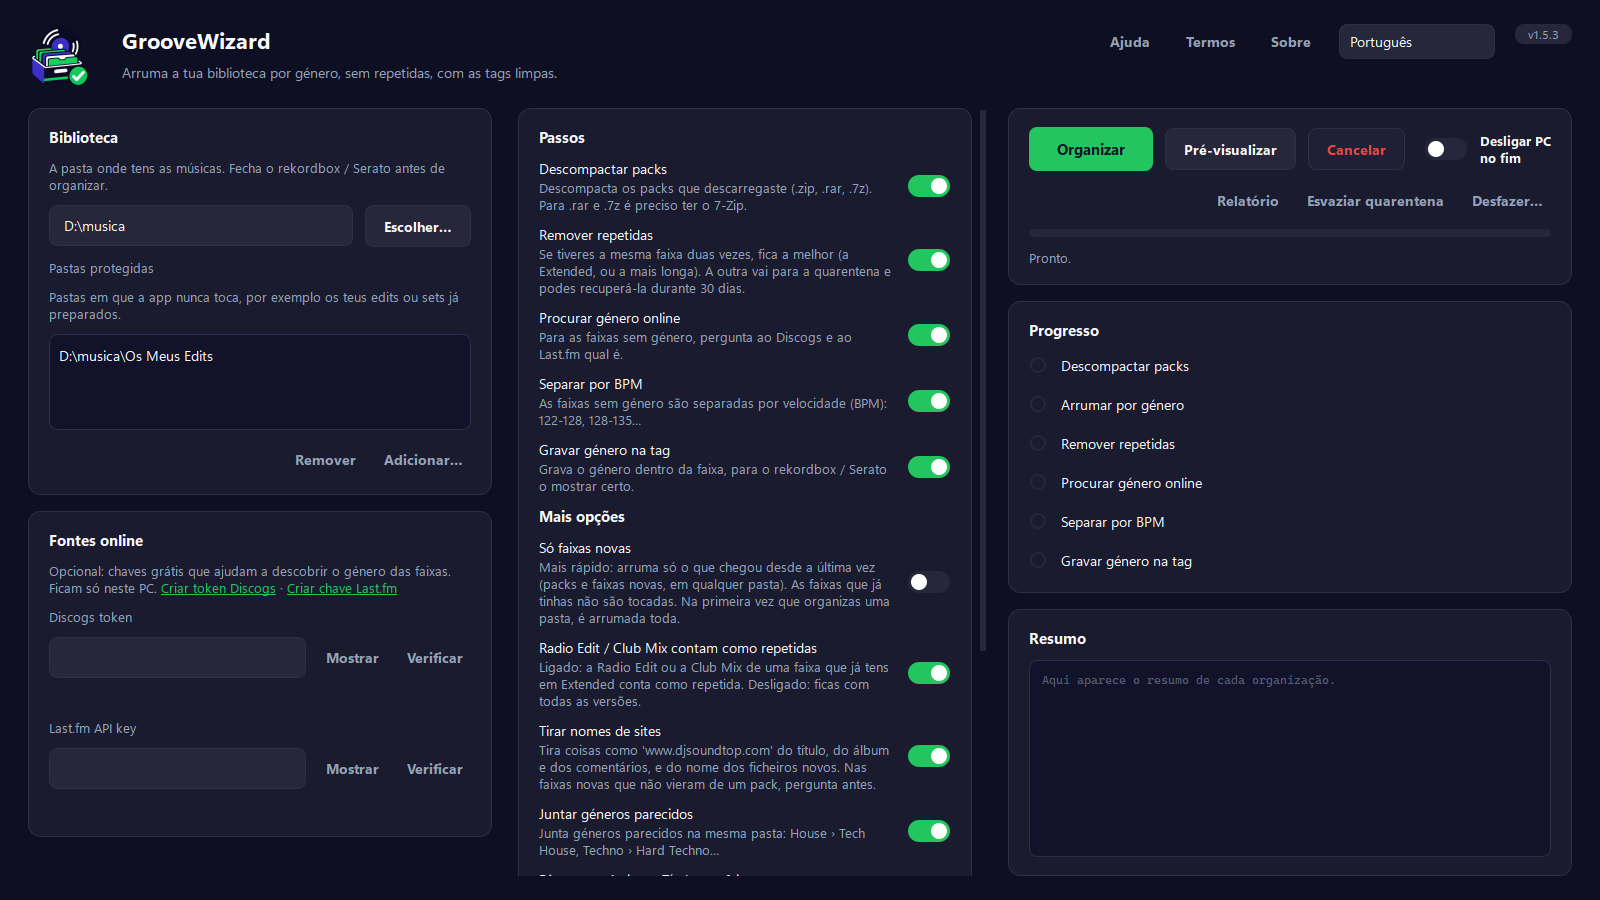
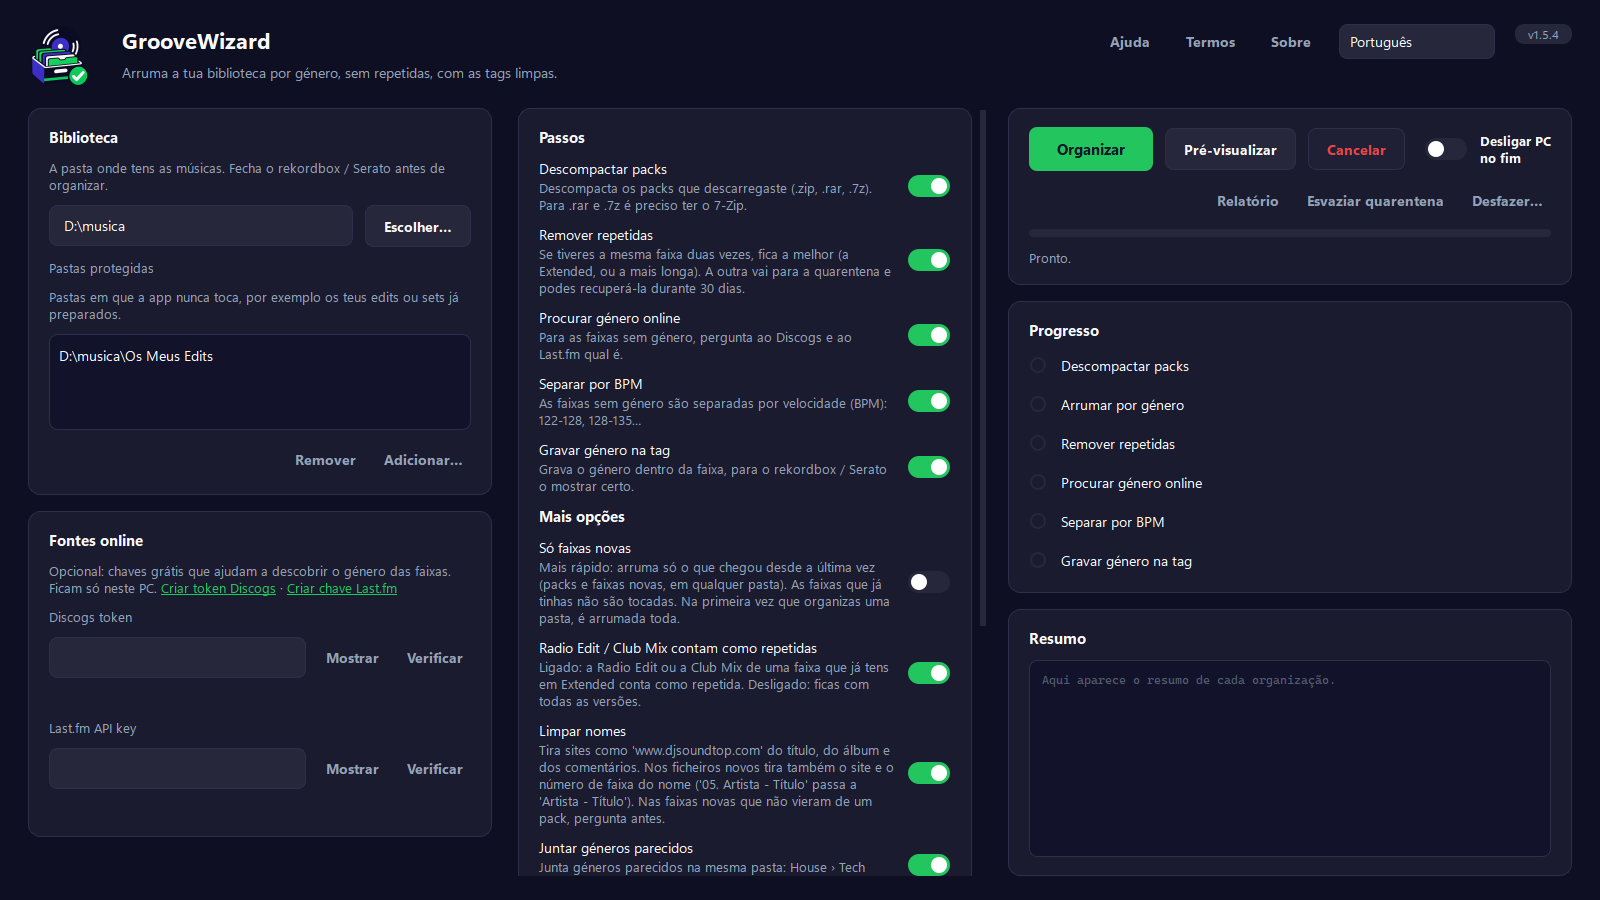
GrooveWizard 1.5.4: número de faixa sai do nome das faixas novas
- 'Limpar nomes' tira o site e o número de faixa ('05. Artista - Título' -> 'Artista - Título') dos ficheiros novos
- 'Limpar o nome das faixas antigas' faz o mesmo nas antigas, com pergunta
- O número fica quando faz parte do artista (808 State, 6 Sense, 3.14 (AR)); prefixos como [Live] ficam
- Faixa antiga posta na _entrada à mão é reconhecida pelo conteúdo e tratada como antiga

Changed region(s): [[0.3125, 0.8089, 0.5938, 0.9956], [0.5625, 0.9022, 0.5938, 0.9956]]

diff --git a/organizador/i18n.py b/organizador/i18n.py
@@ -76,15 +76,15 @@ S = {
     "opt.bpm_folders_d": {"pt": "As faixas sem género são separadas por velocidade (BPM): 122-128, 128-135…", "en": "Tracks without a genre are split by speed (BPM): 122-128, 128-135…"},
     "opt.write_tags": {"pt": "Gravar género na tag", "en": "Write genre to tags"},
     "opt.write_tags_d": {"pt": "Grava o género dentro da faixa, para o rekordbox / Serato o mostrar certo.", "en": "Saves the genre inside the track, so rekordbox / Serato show it right."},
-    "opt.clean_sites": {"pt": "Tirar nomes de sites", "en": "Remove website names"},
-    "opt.clean_sites_d": {"pt": "Tira coisas como 'www.djsoundtop.com' do título, do álbum e dos comentários, e do nome dos ficheiros novos. Nas faixas novas que não vieram de um pack, pergunta antes.", "en": "Removes things like 'www.djsoundtop.com' from the title, album and comments, and from new file names. For new tracks that didn't come from a pack, it asks first."},
-    "opt.site_names": {"pt": "Tirar sites do nome das faixas antigas", "en": "Remove sites from old tracks' names"},
-    "opt.site_names_d": {"pt": "Também nas faixas que já tinhas. Pergunta antes. Atenção: o rekordbox / Serato deixa de as encontrar e tens de as importar outra vez (perdes os cues dessas faixas).", "en": "Also for tracks you already had. Asks first. Note: rekordbox / Serato will no longer find them and you'll have to import them again (their cues are lost)."},
-    "sites.title": {"pt": "Sites no nome das faixas", "en": "Sites in track names"},
-    "sites.ask": {"pt": "{n} faixas antigas têm um site no nome (ex.: '- www.djsoundtop.com').\n\nTirar o site do nome?\n\nAtenção: o rekordbox / Serato deixa de as encontrar. Vais ter de as importar outra vez e perdes os cues dessas faixas. A lista está em Mostrar detalhes.", "en": "{n} old tracks have a site in their name (e.g. '- www.djsoundtop.com').\n\nRemove the site from the name?\n\nNote: rekordbox / Serato will no longer find them. You'll have to import them again and their cues are lost. The list is under Show Details."},
-    "rep.site_names": {"pt": "faixas sem site no nome", "en": "tracks with the site removed from the name"},
-    "rep.site_names_ask": {"pt": "faixas que já tinhas com site no nome (vai perguntar)", "en": "existing tracks with a site in the name (you will be asked)"},
-    "plan.kind.site_name": {"pt": "Tirar site do nome (vai perguntar)", "en": "Remove site from name (will ask)"},
+    "opt.clean_sites": {"pt": "Limpar nomes", "en": "Clean up names"},
+    "opt.clean_sites_d": {"pt": "Tira sites como 'www.djsoundtop.com' do título, do álbum e dos comentários. Nos ficheiros novos tira também o site e o número de faixa do nome ('05. Artista - Título' passa a 'Artista - Título'). Nas faixas novas que não vieram de um pack, pergunta antes.", "en": "Removes sites like 'www.djsoundtop.com' from the title, album and comments. For new files it also takes the site and the track number out of the name ('05. Artist - Title' becomes 'Artist - Title'). For new tracks that didn't come from a pack, it asks first."},
+    "opt.site_names": {"pt": "Limpar o nome das faixas antigas", "en": "Clean up old tracks' names"},
+    "opt.site_names_d": {"pt": "Tira o site e o número de faixa do nome das faixas que já tinhas. Pergunta antes. Atenção: o rekordbox / Serato deixa de as encontrar e tens de as importar outra vez (perdes os cues dessas faixas).", "en": "Takes the site and track number out of the names of tracks you already had. Asks first. Note: rekordbox / Serato will no longer find them and you'll have to import them again (their cues are lost)."},
+    "sites.title": {"pt": "Nomes das faixas antigas", "en": "Old tracks' names"},
+    "sites.ask": {"pt": "{n} faixas antigas têm um site ou um número de faixa no nome (ex.: '05. Artista - Título - www.djsoundtop.com').\n\nLimpar o nome? Só sai o site e o número.\n\nAtenção: o rekordbox / Serato deixa de as encontrar. Vais ter de as importar outra vez e perdes os cues dessas faixas. A lista está em Mostrar detalhes.", "en": "{n} old tracks have a site or a track number in their name (e.g. '05. Artist - Title - www.djsoundtop.com').\n\nClean up the name? Only the site and the number come out.\n\nNote: rekordbox / Serato will no longer find them. You'll have to import them again and their cues are lost. The list is under Show Details."},
+    "rep.site_names": {"pt": "faixas antigas com o nome limpo", "en": "old tracks with a cleaned-up name"},
+    "rep.site_names_ask": {"pt": "faixas antigas com site ou número no nome (vai perguntar)", "en": "old tracks with a site or number in the name (you will be asked)"},
+    "plan.kind.site_name": {"pt": "Limpar nome (vai perguntar)", "en": "Clean up name (will ask)"},
     "opt.families": {"pt": "Juntar géneros parecidos", "en": "Group similar genres"},
     "opt.families_d": {"pt": "Junta géneros parecidos na mesma pasta: House › Tech House, Techno › Hard Techno…", "en": "Puts similar genres in one folder: House › Tech House, Techno › Hard Techno…"},
     "opt.musicbrainz": {"pt": "Usar também o MusicBrainz", "en": "Also use MusicBrainz"},
@@ -190,7 +190,7 @@ S = {
     "rep.rename_ask": {"pt": "faixas novas que não vieram de um pack (vai perguntar antes de mudar o nome)", "en": "new tracks that didn't come from a pack (you'll be asked before renaming)"},
     "rename.title": {"pt": "Faixas novas", "en": "New tracks"},
     "newsites.title": {"pt": "Faixas novas", "en": "New tracks"},
-    "newsites.ask": {"pt": "Há {n} faixas novas com um site no nome (ex.: '- www.djsoundtop.com').\n\nTirar o site do nome? O resto do nome fica igual.\n\nSe alguma já estiver no rekordbox / Serato, escolhe Não: ele deixaria de a encontrar. A lista está em Mostrar detalhes.", "en": "There are {n} new tracks with a site in their name (e.g. '- www.djsoundtop.com').\n\nRemove the site from the name? The rest stays the same.\n\nIf any of them is already in rekordbox / Serato, choose No: it would no longer find it. The list is under Show Details."},
+    "newsites.ask": {"pt": "Há {n} faixas novas com um site ou um número de faixa no nome (ex.: '05. Artista - Título - www.djsoundtop.com').\n\nLimpar o nome? Só sai o site e o número; o resto fica igual.\n\nSe alguma já estiver no rekordbox / Serato, escolhe Não: ele deixaria de a encontrar. A lista está em Mostrar detalhes.", "en": "There are {n} new tracks with a site or a track number in their name (e.g. '05. Artist - Title - www.djsoundtop.com').\n\nClean up the name? Only the site and the number come out; the rest stays.\n\nIf any of them is already in rekordbox / Serato, choose No: it would no longer find it. The list is under Show Details."},
     "rename.ask": {"pt": "Há {n} faixas novas que não vieram de um pack.\n\nMudar o nome delas para Artista - Título?\n\nSe alguma já estiver no rekordbox / Serato, escolhe Não: ele deixaria de a encontrar. A lista está em Mostrar detalhes.", "en": "There are {n} new tracks that didn't come from a pack.\n\nRename them Artist - Title?\n\nIf any of them is already in rekordbox / Serato, choose No: it would no longer find it. The list is under Show Details."},
     "rep.tracks": {"pt": "faixas", "en": "tracks"},
     "rep.dups_pending": {"pt": "repetidas a remover", "en": "duplicates to remove"},

diff --git a/organizador/pipeline.py b/organizador/pipeline.py
@@ -28,7 +28,7 @@ from .i18n import t
 from .online import Lookup
 from .regras import FAMILY_OF, FOLDER_NAMES, NO_GENRE, OTHER
 from .tags import (JUNK_TAG_SPAM, LIST_SEP, LOSSLESS, clean_sites, fix_tags, genre_from_folder, is_audio,
-                   normalize_genre, pack_file_name, raw_genre, read_info, restore, search_terms, site_free_name, snapshot,
+                   normalize_genre, pack_file_name, raw_genre, read_info, restore, search_terms, clean_file_name, snapshot,
                    track_key, version_label)
 
 APP_DIR = os.path.join(os.environ.get("APPDATA") or os.path.expanduser("~"), "GrooveWizard")
@@ -326,6 +326,16 @@ class Organizer:
         except OSError:
             return False
 
+    def _known_content(self, p):
+        """Music the app has seen before (same fingerprint), wherever the file is now. A matching fingerprint is enough;
+        a size known only from before fingerprints is not (a pack track is never held back by an old size alone)."""
+        if self.known is None or not self._has_fps:
+            return False
+        try:
+            return os.path.getsize(p) in self.known[1] and self._fingerprint(p) in self._fps
+        except OSError:
+            return False
+
     def _fingerprint(self, p):
         """'size:hash' of 32 KB from the middle of the file (the music, not the tags at its ends). Cached by path,
         size and modified time: only new or changed files are read."""
@@ -340,12 +350,12 @@ class Organizer:
 
     def _wanted_names(self, p, info, known):
         """New names for one track, best first. New tracks: 'Artist - Title (Mix)' (option), then the same name
-        without the download site (when sites are cleaned), used if the first is taken. Known tracks: only the site
-        comes out, and only with site_names."""
+        without the download site and track number (when names are cleaned), used if the first is taken. Known
+        tracks: only the site and number come out, and only with site_names."""
         if known:
-            return [site_free_name(p)] if self.opts.site_names else []
+            return [clean_file_name(p, info["artist"])] if self.opts.site_names else []
         return [n for n in (pack_file_name(p, info) if self.opts.rename_packs else None,
-                            site_free_name(p) if self.opts.clean_sites else None) if n]
+                            clean_file_name(p, info["artist"]) if self.opts.clean_sites else None) if n]
 
     def rename_plan(self, files, infos):
         """(names for _entrada tracks, names for never-seen tracks elsewhere, site-free names for tracks you already
@@ -359,7 +369,8 @@ class Organizer:
             if info["unreadable"]:
                 continue
             if self._in_inbox(p):
-                group = inbox
+                # a track you already had, put in _entrada by hand: rekordbox may have it, so it's asked about
+                group = sites if self._known_content(p) else inbox
             elif self.is_new(p):
                 group = outside
             else:
@@ -765,7 +776,7 @@ class Organizer:
         inbox_names, outside, sites = self.rename_plan(files, infos)
         self._pending -= {os.path.normcase(p) for p in files if p not in outside}  # nothing to ask about them
         # without 'Artist - Title' names only the site comes out: the question must say so
-        kind = "new_sites" if all(n == site_free_name(p) for p, n in outside.items()) else "new"
+        kind = "new_sites" if all(n == clean_file_name(p, infos[p]["artist"]) for p, n in outside.items()) else "new"
         if outside and not (self.ask_rename and self.ask_rename(sorted(outside.items()), kind)):
             for p in outside:  # "No": known from now on, never asked again
                 self._settle(p)

diff --git a/tests/test_pipeline.py b/tests/test_pipeline.py
@@ -150,9 +150,10 @@ def test_rename_packs():
     assert "Fisher - Losing It (Extended Mix).wav" in names, names
     assert "AC DC - What Now.wav" in names, names
     assert "Bob - New One (Club Mix).wav" in names, names
-    assert "02 - sem tags.wav" in names and "03-c-taken.wav" in names, names  # unsure / taken: original name
+    # unsure / taken: the original name, only without the track number
+    assert "sem tags.wav" in names and "c-taken.wav" in names, names
     assert "x_minha.wav" in names, "a track already in the library is never renamed"
-    assert rep["renamed"] == 3, rep
+    assert rep["renamed"] == 5, rep  # 3 Artist - Title + 2 that only lost their track number
     assert os.path.exists(taken)
     rep, errs = pl.undo_last(root)
     assert not errs, errs
@@ -466,6 +467,32 @@ def test_site_names():
     assert site_free_name("Carla - Red Ambition-www.groovytunes.org.wav") == "Carla - Red Ambition.wav"
     assert site_free_name("DAMEN - Games (Original Mix) [4DJsonline.com] .aiff") == "DAMEN - Games (Original Mix).aiff"
     assert site_free_name("Love.me (Extended Mix).wav") is None and site_free_name("www.site.com.wav") is None
+    from organizador.tags import clean_file_name as cfn
+    assert cfn("05. Kaufmann (DE) - In Control.mp3", "Kaufmann (DE)") == "Kaufmann (DE) - In Control.mp3"
+    assert cfn("01. A - B - www.djsoundtop.com.mp3", "A") == "A - B.mp3"
+    assert cfn("02 - 6 Sense - X.wav", "6 Sense") == "6 Sense - X.wav"
+    for keep, art in (("3.14 (AR) - Peter.mp3", "3.14 (AR)"), ("808 State - Cubik.mp3", "808 State"),
+                      ("6 Sense - X.wav", "6 Sense"), ("1-2-3 Go.mp3", ""), ("936 - Pasion.mp3", "936")):
+        assert cfn(keep, art) is None, keep  # the number belongs to the artist / isn't a track number
+    assert cfn("[Live] 01 - A - B.mp3", "A") == "[Live] A - B.mp3"  # only the number comes off
+    assert cfn("01 - Баста - Песня.mp3", "Баста") == "Баста - Песня.mp3"  # any script
+    assert cfn("www.site.com - 05. A - B.mp3", "A") == "A - B.mp3"
+    # a track you already had, put back in _entrada by hand: asked about like any old track, not renamed silently
+    root = os.path.join(TMP, "entrada_antiga")
+    import random
+    old = make(os.path.join(root, "Techno", "Techno", "07. Z - Old.wav"), 2, "Z", "Old", "Techno")
+    with open(old, "r+b") as fh:
+        fh.seek(4000)
+        fh.write(random.Random(9).randbytes(20000))
+    o = pl.Options(root=root, online=False, bpm_folders=False, dedupe=False)
+    pl.Organizer(o).run()
+    pl.Organizer(o).run()  # fingerprints recorded
+    back = os.path.join(root, pl.INBOX, "07. Z - Old.wav")
+    os.makedirs(os.path.dirname(back))
+    os.rename(old, back)
+    asked2 = []
+    pl.Organizer(o, ask_rename=lambda items, kind="new": asked2.append(kind) or False).run()
+    assert os.path.exists(os.path.join(root, "Techno", "Techno", "07. Z - Old.wav")) and asked2 == []
     assert site_free_name("Artist - Love.me.wav") is None and site_free_name("Artist  -  Title.wav") is None
     assert site_free_name("Clouds - Mutate On-Site-www.groovytunes.org.mp3") == "Clouds - Mutate On-Site.mp3"
     assert site_free_name("A - Title-www.site.com (Extended Mix).mp3") == "A - Title (Extended Mix).mp3"

diff --git a/organizador/tags.py b/organizador/tags.py
@@ -245,15 +245,37 @@ _FILE_SITE = re.compile(r"\s*[\[(]\s*(?:www\.)?[\w-]+(?:\.[\w-]+)*\.(?:com|net|o
 # (with the '-' that glued it on; www.* stops at its top-level domain: 'www.site.com-Extended-Mix' keeps the mix)
 
 
-def site_free_name(path):
-    """'Artist - Title (Extended Mix) - www.djsoundtop.com.mp3' -> 'Artist - Title (Extended Mix).mp3'; None when
-    the name has no site in it, or nothing would be left."""
+# a track number at the start of a file name: '05. ', '01 - ', '01-', '01_', '03) ', '[9A] 05 - ', or '01 ' with a 0.
+# '3.14 (AR)', '1-2-3' or '808 State' are not track numbers ('.'/'-' right before a digit, or no separator)
+_TRACK_NUM = re.compile(r"^(\s*\[[^\]]*\]\s*)?(?:\d{1,3}\s*(?:\.(?!\d)|[)_]|\s-\s|-(?!\d))\s*|0\d\s+)(?=\D)")
+
+
+def _plain(s):
+    """Letters and digits only, no accents, any script ('Баста' stays 'баста')."""
+    s = "".join(c for c in unicodedata.normalize("NFKD", s) if not unicodedata.combining(c)).casefold()
+    return re.sub(r"[\W_]+", "", s)
+
+
+def clean_file_name(path, artist=""):
+    """Same name without the download site and the track number: '05. Artist - Title - www.djsoundtop.com.mp3' ->
+    'Artist - Title.mp3'. Nothing is added or guessed. The number stays when the name starts with the artist from the
+    tags (the number is part of the artist: '808 State', '6 Sense'). None when nothing would change."""
     stem, ext = os.path.splitext(os.path.basename(path))
     cut = _FILE_SITE.sub("", stem)
-    if cut == stem:  # no site: never touch the name (not even its spacing)
+    if cut != stem:
+        cut = cut.lstrip(" -|–—:")  # 'www.site.com - 05. Artist': the site's separator goes with it
+    m = _TRACK_NUM.match(cut)
+    if m and not (artist and _plain(artist) and _plain(cut[len(m.group(1) or ""):]).startswith(_plain(artist))):
+        cut = (m.group(1) or "") + cut[m.end():]  # only the number: a '[Live] ' or '[9A] ' before it stays
+    if cut == stem:  # nothing to take out: never touch the name (not even its spacing)
         return None
-    new = re.sub(r"\s+", " ", cut).strip(" .-|–—:")
+    new = re.sub(r"\s+", " ", cut).strip(" .-_|–—:")
     return new + ext.lower() if re.search(r"\w", new) else None
+
+
+def site_free_name(path):
+    """Kept for callers that only want the site out (and the number, see clean_file_name)."""
+    return clean_file_name(path)
 
 
 def version_label(path, info=None):

diff --git a/organizador/ajuda.py b/organizador/ajuda.py
@@ -55,11 +55,12 @@ HELP = {
 </ul>
 <h3>Nomes das faixas</h3>
 <ul>
-  <li>Nas <b>faixas novas</b> o site sai também do nome do ficheiro. Com a opção <i>Pôr nomes Artista - Título</i>,
+  <li>Nas <b>faixas novas</b> o site e o número de faixa saem também do nome do ficheiro
+      (<code>05. Artista - Título</code> passa a <code>Artista - Título</code>). Com a opção <i>Pôr nomes Artista - Título</i>,
       ficam por exemplo <code>Fisher - Losing It (Extended Mix)</code>.</li>
   <li>As faixas dos packs mudam de nome logo. Outras faixas novas (que puseste soltas na pasta) só depois de
       confirmares, porque podem já estar no rekordbox.</li>
-  <li>As <b>faixas que já tinhas</b> nunca mudam de nome, a não ser que ligues <i>Tirar sites do nome das faixas
+  <li>As <b>faixas que já tinhas</b> nunca mudam de nome, a não ser que ligues <i>Limpar o nome das faixas
       antigas</i>. Nesse caso a app pergunta antes; depois tens de as importar outra vez no rekordbox (perdes os
       cues dessas faixas).</li>
   <li>Dica: organiza <b>antes</b> de importares as faixas novas no rekordbox.</li>
@@ -125,11 +126,12 @@ HELP = {
 </ul>
 <h3>Track names</h3>
 <ul>
-  <li>For <b>new tracks</b> the site also comes out of the file name. With the option <i>Name new tracks Artist -
+  <li>For <b>new tracks</b> the site and the track number also come out of the file name
+      (<code>05. Artist - Title</code> becomes <code>Artist - Title</code>). With the option <i>Name new tracks Artist -
       Title</i> they become, for example, <code>Fisher - Losing It (Extended Mix)</code>.</li>
   <li>Tracks from packs are renamed right away. Other new tracks (that you dropped in the folder) only after you
       confirm, because they may already be in rekordbox.</li>
-  <li><b>Tracks you already had</b> never change name, unless you turn on <i>Remove sites from old tracks' names</i>.
+  <li><b>Tracks you already had</b> never change name, unless you turn on <i>Clean up old tracks' names</i>.
       Then the app asks first; afterwards you have to import them again in rekordbox (their cues are lost).</li>
   <li>Tip: organize <b>before</b> importing new tracks into rekordbox.</li>
 </ul>

diff --git a/organizador/__init__.py b/organizador/__init__.py
@@ -1,2 +1,2 @@
 """GrooveWizard: sorts a DJ music library by genre."""
-__version__ = "1.5.3"
+__version__ = "1.5.4"

diff --git a/README.md b/README.md
@@ -27,7 +27,7 @@ Called <i>Cratekeeper</i> up to 1.1.0; updating keeps settings, keys and history
 4. **Procura o género online** das faixas que não o têm (Discogs, Last.fm e, se quiseres, MusicBrainz). É uma estimativa, não uma garantia.
 5. **Separa por BPM** as faixas sem género (`BPM 122-128`, `BPM 128-135`, …).
 6. **Limpa as tags**: grava o género dentro da faixa (o rekordbox / Serato passam a mostrá-lo) e tira nomes de sites como `www.djsoundtop.com` do título, álbum e comentários.
-7. **Limpa os nomes das faixas novas**: tira o site do nome do ficheiro e, se quiseres, dá o nome `Artista - Título (Extended Mix)`. As faixas dos packs mudam logo; outras faixas novas só depois de confirmares. As que já tinhas não mudam de nome (o rekordbox deixaria de as encontrar), a não ser que ligues a opção para as faixas antigas, que pergunta antes.
+7. **Limpa os nomes das faixas novas**: tira o site e o número de faixa do nome do ficheiro (`05. Artista - Título` → `Artista - Título`) e, se quiseres, dá o nome `Artista - Título (Extended Mix)`. As faixas dos packs mudam logo; outras faixas novas só depois de confirmares. As que já tinhas não mudam de nome (o rekordbox deixaria de as encontrar), a não ser que ligues a opção para as faixas antigas, que pergunta antes.
 8. **Agrupa géneros parecidos**: `House/Tech House`, `Techno/Hard Techno`, `Melodic & Indie/…`, `Bass & Breaks/…`, `Dance & Mainstage/…`.
 9. **Pastas protegidas**: escolhes pastas em que a app nunca toca (os teus edits, sets já preparados).
 10. **Só faixas novas** (opção): mais rápido, arruma só o que chegou desde a última vez. As faixas que já tinhas não são tocadas. Na primeira vez que organizas uma pasta, ela é arrumada toda.
@@ -141,7 +141,7 @@ python app.py
 - Removes duplicates: the best copy stays (the Extended, else the longest); the other goes to quarantine for 30 days.
 - Looks up missing genres online (Discogs, Last.fm, optionally MusicBrainz) — an estimate, not a guarantee.
 - Splits tracks without a genre by BPM and saves the genre inside each track.
-- Removes website names (e.g. `www.djsoundtop.com`) from tags and from new tracks' file names; can name new tracks `Artist - Title (Extended Mix)`. Tracks from packs change right away, other new tracks after you confirm; tracks you already had keep their name unless you turn on the option for old tracks (it asks first).
+- Removes website names (e.g. `www.djsoundtop.com`) from tags, and website names and track numbers (`05. `) from new tracks' file names; can name new tracks `Artist - Title (Extended Mix)`. Tracks from packs change right away, other new tracks after you confirm; tracks you already had keep their name unless you turn on the option for old tracks (it asks first).
 - Protected folders are never touched; *Only new tracks* sorts only what arrived since last time; *Report* lists tracks with problems without changing anything.
 - Formats: MP3, FLAC, AIFF/AIF, WAV, M4A.
 
